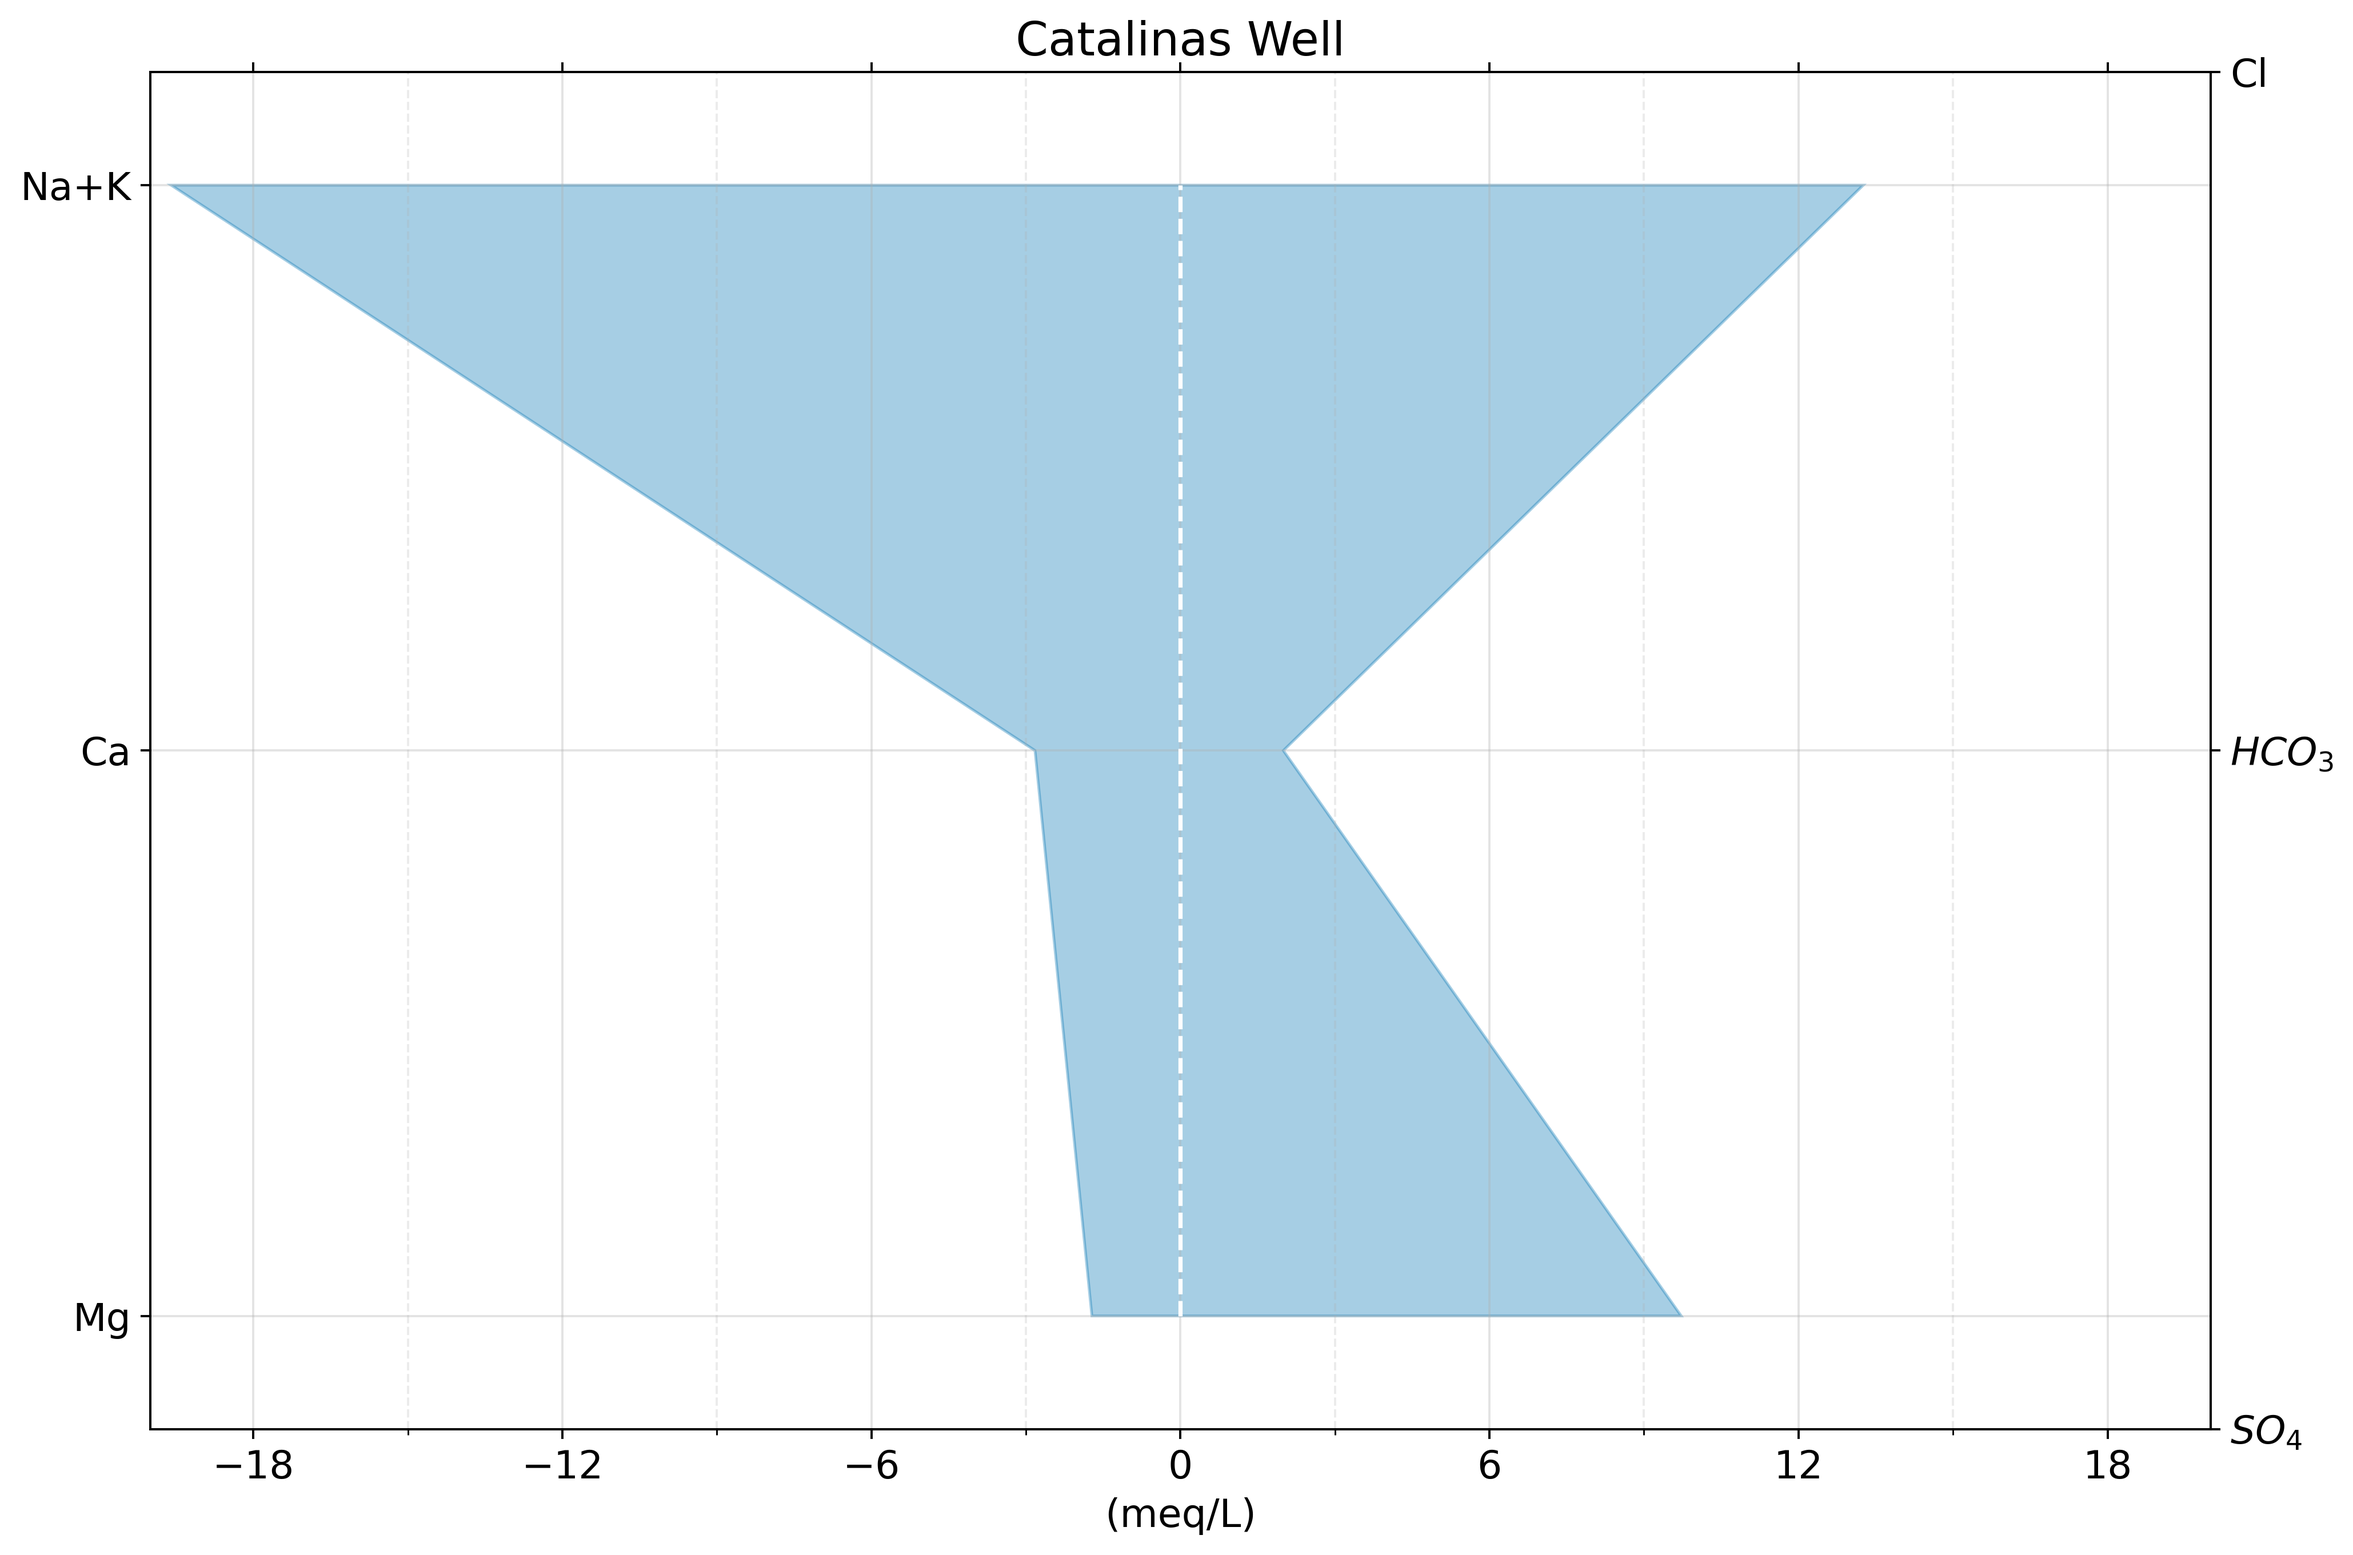
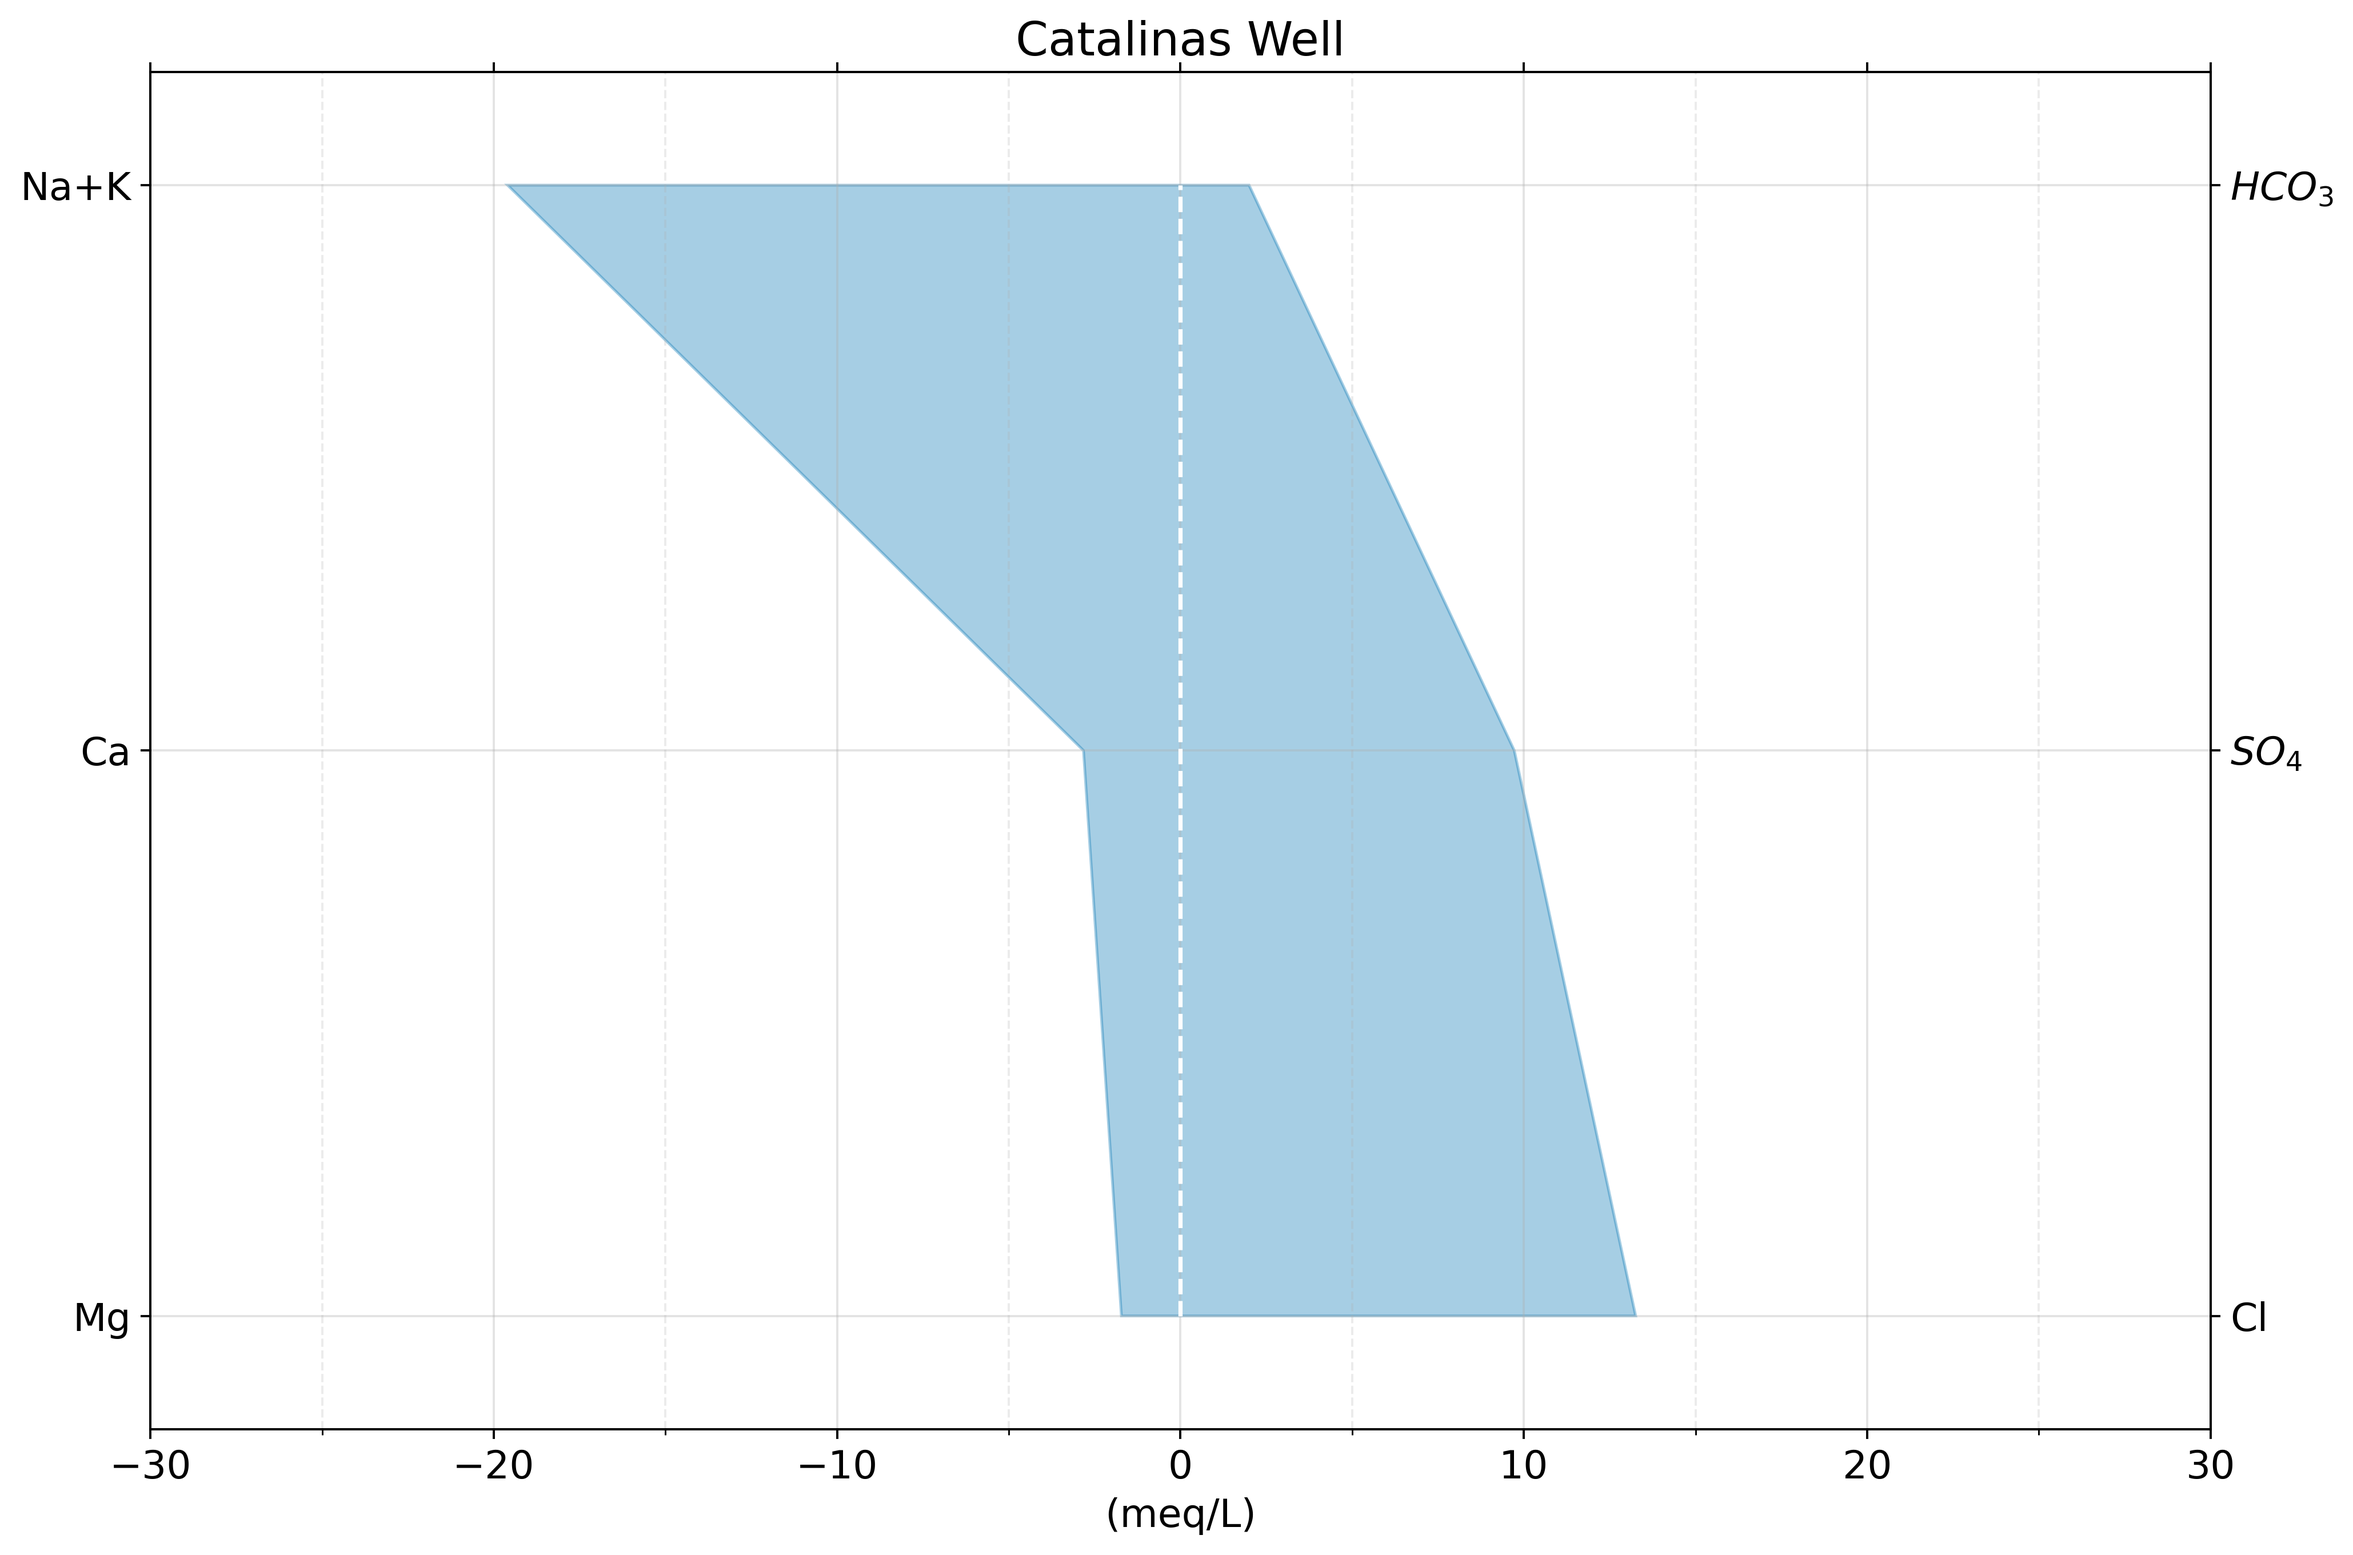
Updates!

diff --git a/StiffDiagram.py b/StiffDiagram.py
@@ -76,7 +76,7 @@ try:
         plt.subplot(nrow,ncol,sID+1)
         # plt.hold(True)
         # define x coordinates of fill
-        x=[-obs['NaK'].iloc[sID], -obs['Ca'].iloc[sID], -obs['Mg'].iloc[sID],obs['SO4'].iloc[sID] , obs['HCO3'].iloc[sID], obs['Cl'].iloc[sID], -obs['NaK'].iloc[sID]]
+        x=[-obs['NaK'].iloc[sID], -obs['Ca'].iloc[sID], -obs['Mg'].iloc[sID],obs['Cl'].iloc[sID] , obs['SO4'].iloc[sID], obs['HCO3'].iloc[sID], -obs['NaK'].iloc[sID]]
         y=[3,2,1,1,2,3,3]
     
         # Stiff plots with color depending on water type
@@ -100,12 +100,14 @@ try:
         plt.ylim(0.8, 3.2)
     
         ax.yaxis.set_label_position("left")
-        plt.yticks([3,1,2],{'Na+K','Ca','Mg'})
-        plt.xlim([-max_val,max_val])
+        plt.yticks([2,1,3],{'Na+K','Ca','Mg'})
+        plt.xlim([-30,30])
+        #plt.xlim([-max_val,max_val])
         ax2 = ax.twinx()
         #ax2.yaxis.set_label_position("right")
         # ax2.yaxis.tick_right()
         ax2.set_yticks([0,1,0.5])
+        plt.ylim(-0.1,1.1)
         ax2.set_yticklabels({r'$SO_{4}$',r'$HCO_{3}$','Cl'})
     
         # for spine in plt.gca().spines.values():
